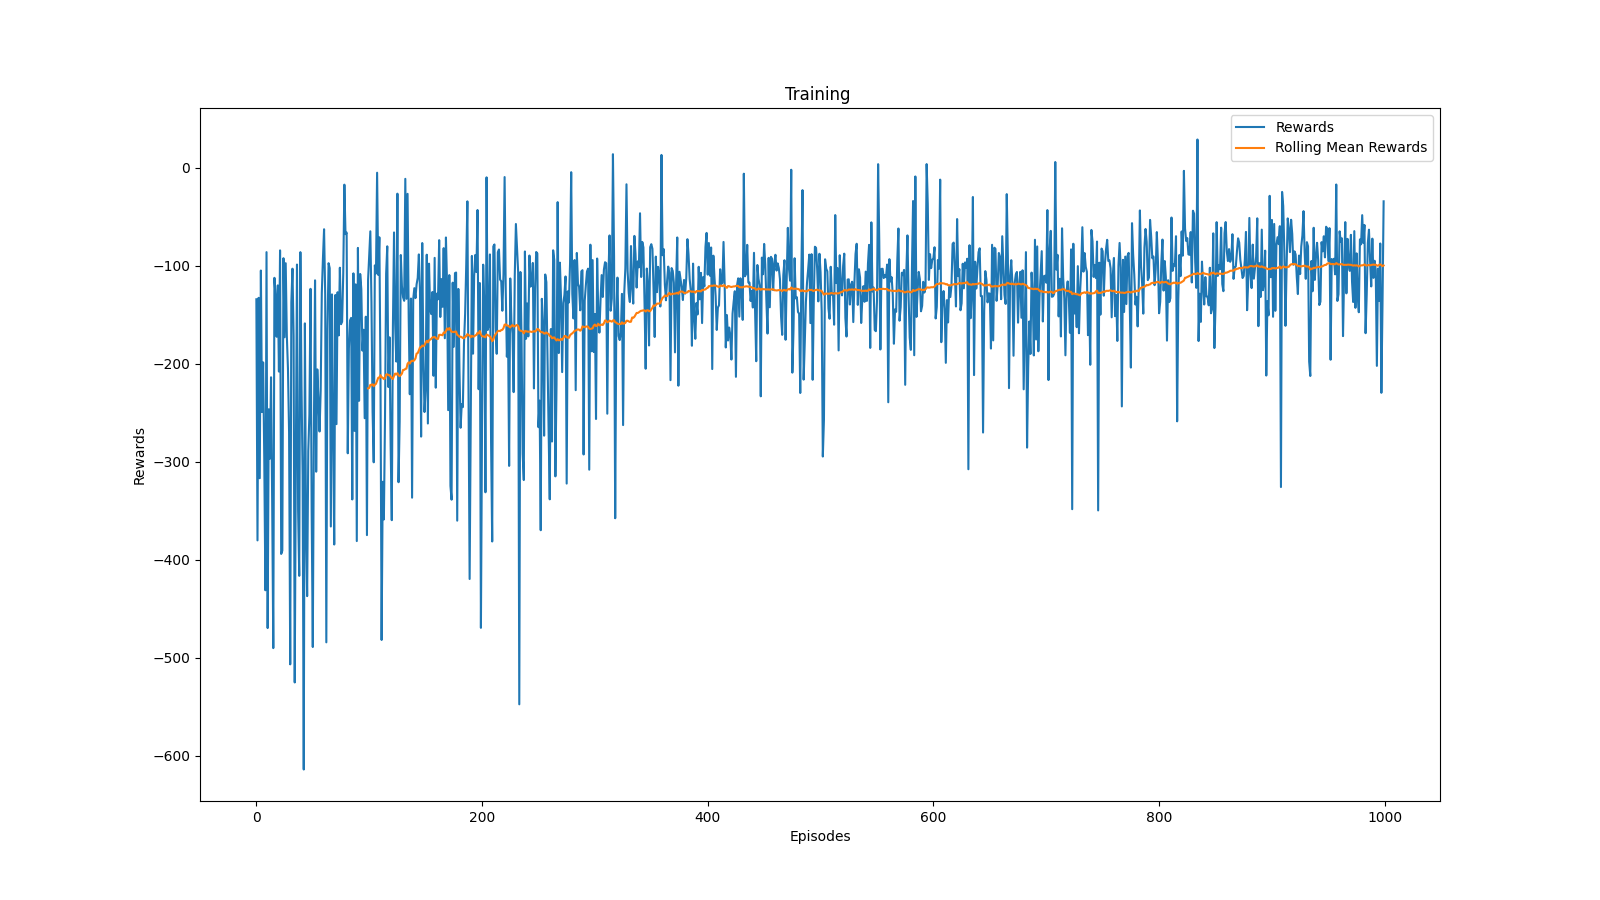
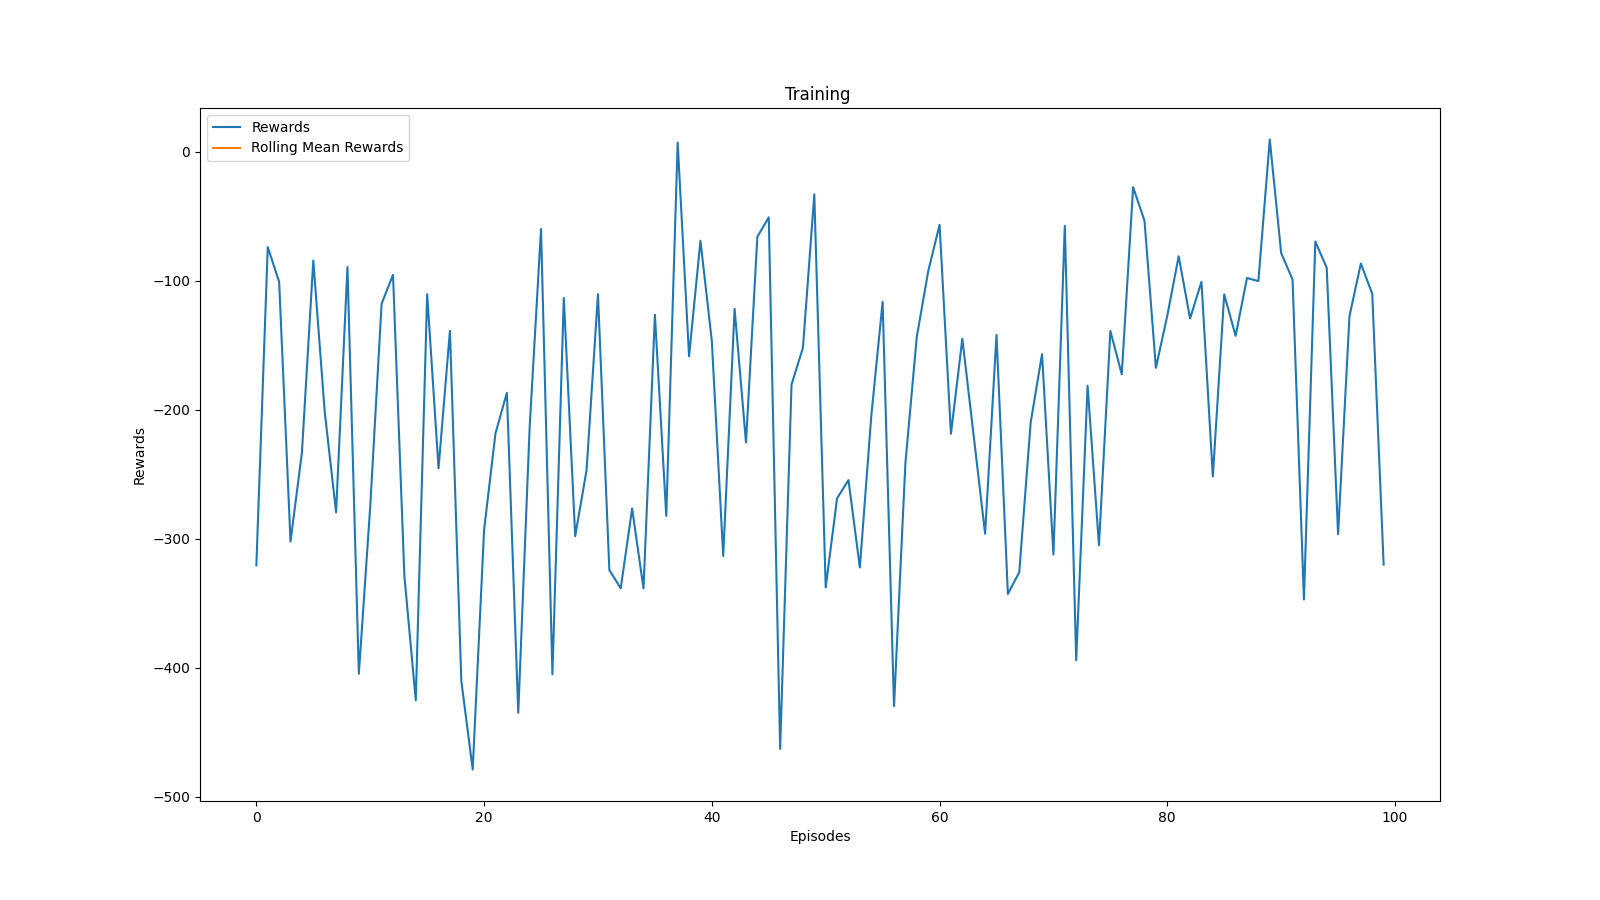
Add averaging over training runs

diff --git a/src/trainer/reinforce_trainer.py b/src/trainer/reinforce_trainer.py
@@ -1,11 +1,12 @@
 import gymnasium as gym
 import torch
 from tqdm.auto import tqdm
+import numpy as np
 
 from agent import PolicyAgent
 from config import (device, checkpoint_path,
                     video_record_period, visualizer_path,
-                    update_interval, save_interval)
+                    update_interval, save_interval, data_path, num_repets)
 from trainer import Trainer
 
 
@@ -31,54 +32,73 @@ class REINFORCETrainer(Trainer):
         self.checkpoint_path = checkpoint_path_
         self.update_interval = update_interval
         self.save_interval = save_interval
+        self.num_repets = num_repets
+
+
+    def train(self):
+        sum_rewards = np.empty((self.num_repets, self.n_episodes))
+        for i in tqdm(range(self.num_repets)):
+            last_policy, total_rewards = self.train()
+            sum_rewards[i] = np.array(total_rewards)
+        
+        return last_policy, sum_rewards
 
 
     def train(self):
         returns = torch.empty(0, dtype=torch.float64, device=device)
         log_probs = torch.empty(0, dtype=torch.float64, device=device)
+        sum_rewards = np.empty((self.num_repets, self.n_episodes))
+        sum_lengths = np.empty((self.num_repets, self.n_episodes))
         total_rewards = []
         total_lengths = []
-        for episode in tqdm(range(self.n_episodes)):
-            state, _ = self.env.reset()
-            rewards = []
-            done = False
+        for i in tqdm(range(self.num_repets)):
+            for episode in tqdm(range(self.n_episodes)):
+                state, _ = self.env.reset()
+                rewards = []
+                done = False
 
-            while not done:
-                state_tensor = torch.tensor(state, dtype=torch.float32,
-                                            device=self.device).to(device)
-                action, log_prob_action = self.agent.get_action(state_tensor)
-                next_state, reward, terminated, truncated, _ = self.env.step(action.cpu().item())
+                while not done:
+                    state_tensor = torch.tensor(state, dtype=torch.float32,
+                                                device=self.device).to(device)
+                    action, log_prob_action = self.agent.get_action(state_tensor)
+                    next_state, reward, terminated, truncated, _ = self.env.step(action.cpu().item())
 
-                log_probs = torch.concatenate((log_probs,log_prob_action))
-                rewards.append(reward)
+                    log_probs = torch.concatenate((log_probs,log_prob_action))
+                    rewards.append(reward)
 
-                done = terminated or truncated
-                state = next_state
+                    done = terminated or truncated
+                    state = next_state
 
 
-            episode_returns = self.calculate_returns(rewards)
-            returns = torch.concatenate((returns,episode_returns))
-            if (episode+1) % self.update_interval==0:
-                loss = self.calculate_loss(returns, log_probs)
-                self.optimizer.zero_grad()
-                loss.backward()
-                self.optimizer.step()
+                episode_returns = self.calculate_returns(rewards)
+                returns = torch.concatenate((returns,episode_returns))
+                if (episode+1) % self.update_interval==0:
+                    loss = self.calculate_loss(returns, log_probs)
+                    self.optimizer.zero_grad()
+                    loss.backward()
+                    self.optimizer.step()
 
-                returns = torch.empty(0, dtype=torch.float64, device=device)
-                log_probs = torch.empty(0, dtype=torch.float64, device=device)
+                    returns = torch.empty(0, dtype=torch.float64, device=device)
+                    log_probs = torch.empty(0, dtype=torch.float64, device=device)
 
-            total_rewards.append(self.env.return_queue[-1])
-            total_lengths.append(self.env.length_queue[-1])
-            if (episode + 1) % self.info_frequency == 0:
-                print(f'Episode {episode}, Total Reward: {sum(rewards):.2f}')
+                total_rewards.append(self.env.return_queue[-1])
+                total_lengths.append(self.env.length_queue[-1])
 
-            if (episode + 1) % self.save_interval == 0:
-                torch.save({
-                    'episode': episode,
-                    'model_state_dict': self.agent.policy.state_dict(),
-                    'optimizer_state_dict': self.optimizer.state_dict(),
-                }, f'{self.checkpoint_path}/checkpoint_{episode}.tar')
+                if (episode + 1) % self.info_frequency == 0:
+                    print(f'Episode {episode}, Total Reward: {sum(rewards):.2f}')
 
+                if (episode + 1) % self.save_interval == 0:
+                    torch.save({
+                        'episode': episode,
+                        'model_state_dict': self.agent.policy.state_dict(),
+                        'optimizer_state_dict': self.optimizer.state_dict(),
+                    }, f'{self.checkpoint_path}/checkpoint_{episode}.tar')
+            
+            sum_rewards[i] = np.array(total_rewards)
+
+        total_rewards = np.mean(sum_rewards, axis=0)
+        total_lengths = np.mean(sum_lengths, axis=0)
+        np.save(f'{data_path}/training_rewards.npy', sum_rewards)
         last_policy = self.agent.policy.state_dict()
         self.env.close()
         return last_policy, total_rewards, total_lengths

diff --git a/src/config.py b/src/config.py
@@ -3,13 +3,15 @@ import torch
 device = torch.device('cuda' if torch.cuda.is_available() else 'cpu')
 checkpoint_path = "../results/checkpoints"
 visualizer_path = "../results/img"
+data_path = "../results/training_data"
 video_record_period=100
 hidden_size = 128
 learning_rate = 0.001
-n_episodes = 1000
+n_episodes = 100
 discount_factor = 0.99
 info_frequency = 100
 rolling_window = 100
 evaluation_time = 20
-update_interval = 4
+update_interval = 1
 save_interval = 100
+num_repets = 1
